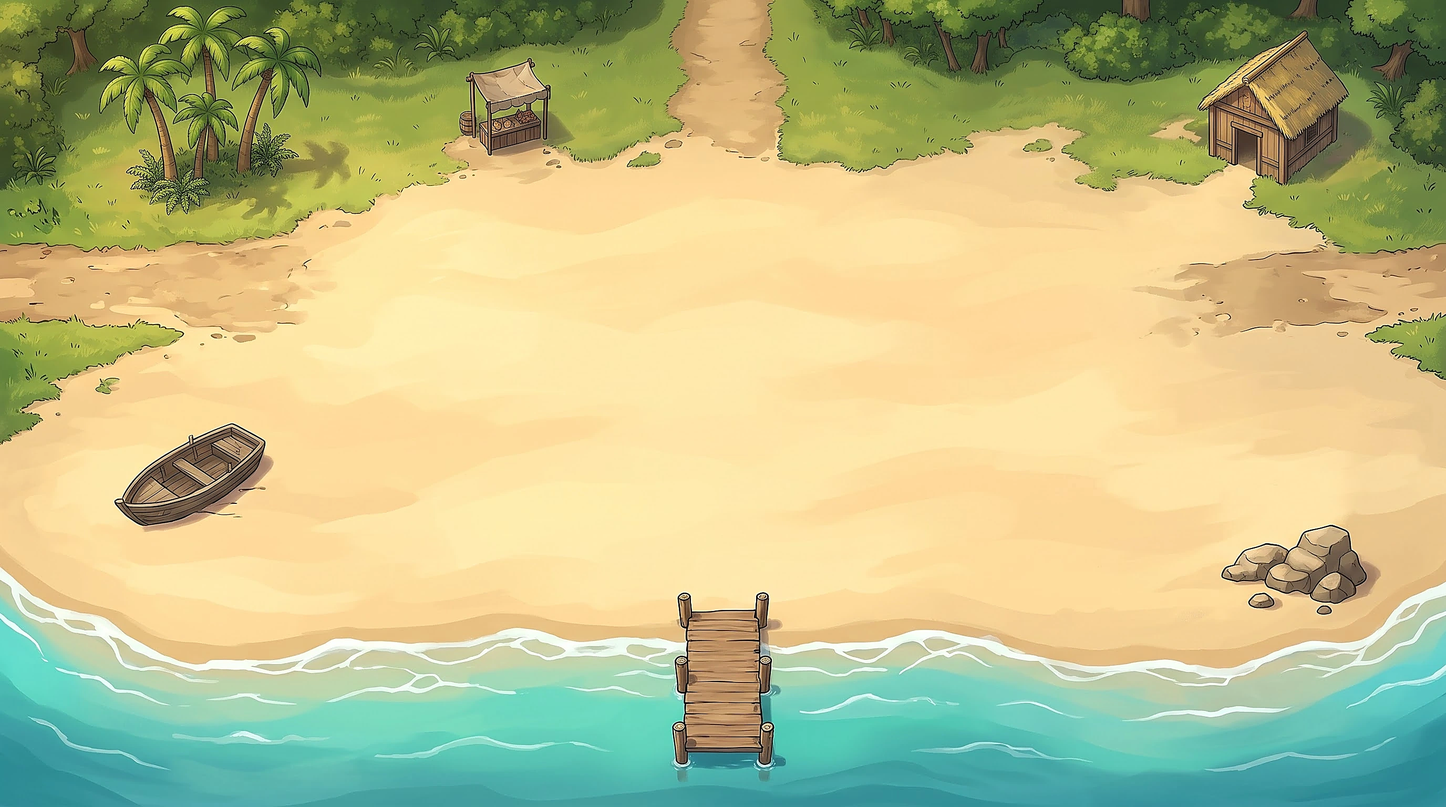
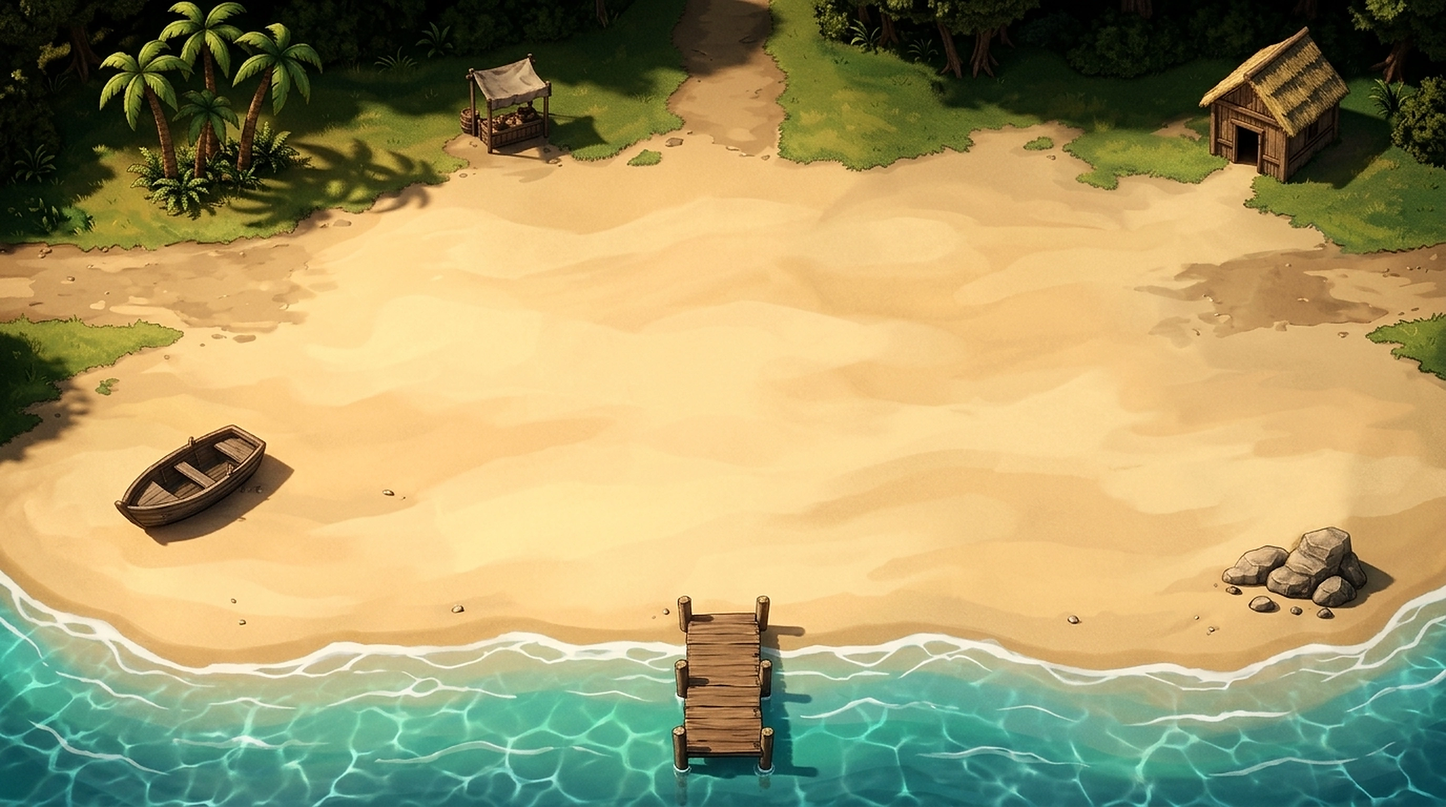
feat(praia): upgrade beach map to high-detail 2.5D/3D diorama render matching exact collision layout

diff --git a/confusion/web/teste-quarteirao/praia.js b/confusion/web/teste-quarteirao/praia.js
@@ -66,7 +66,7 @@ const carregador = new THREE.TextureLoader();
 const texturas = new Map();
 function textura(nome) {
   if (!texturas.has(nome)) {
-    const t = carregador.load(A + nome + '.webp?v=hd2k');
+    const t = carregador.load(A + nome + '.webp?v=3d_hd_v1');
     t.colorSpace = THREE.SRGBColorSpace;
     t.anisotropy = maxAniso;
     t.minFilter = THREE.LinearFilter;

diff --git a/confusion/web/teste-quarteirao/vila.js b/confusion/web/teste-quarteirao/vila.js
@@ -67,7 +67,7 @@ const carregador = new THREE.TextureLoader();
 const texturas = new Map();
 function textura(nome) {
   if (!texturas.has(nome)) {
-    const t = carregador.load(A + nome + '.webp?v=hd2k');
+    const t = carregador.load(A + nome + '.webp?v=3d_hd_v1');
     t.colorSpace = THREE.SRGBColorSpace;
     t.anisotropy = maxAniso;
     t.minFilter = THREE.LinearFilter;
